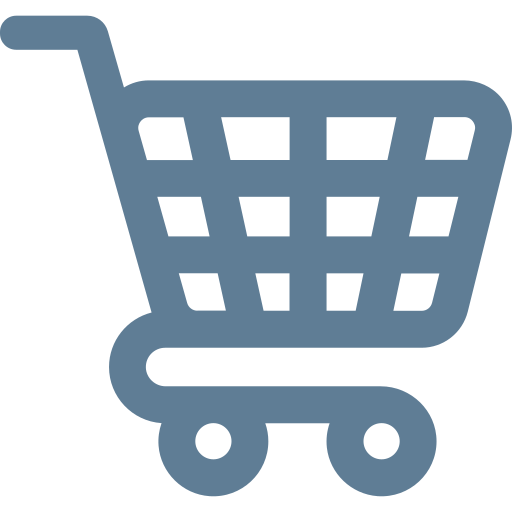
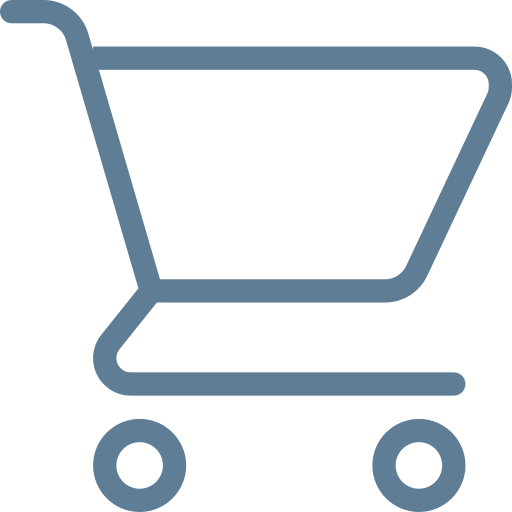
Cart count new design added

diff --git a/src/components/Header/Header.js b/src/components/Header/Header.js
@@ -49,17 +49,11 @@ export const Header = ({
         <div className={s.menu_btn}>
           <NavLink to="/contacts">CONTACT US</NavLink>
         </div>
-        <div>
-          <div className={s.cart}>
-            <NavLink to="/cart">
-              <img alt="cart_icon" src={cart} />
-            </NavLink>
-            <div className={s.cart_count}>
-              <div>{cartCounter}</div>
-              <div className={s.count_text}></div>
-            </div>
+        <NavLink to="/cart">
+          <div className={s.cart_image}>
+            <div className={s.cart_count}>{cartCounter}</div>
           </div>
-        </div>
+        </NavLink>
         <div className={s.menu_btn}>
           <NavLink to="/login">MY_ACCOUNT</NavLink>
         </div>

diff --git a/src/components/Header/Header.module.css b/src/components/Header/Header.module.css
@@ -46,29 +46,21 @@
   font-size: 13px;
 }
 
-.cart {
-  display: grid;
-  grid-template-columns: 1fr 1fr;
-  text-align: center;
-}
-
-.cart img {
-  height: 25px;
-  margin-top: 8px;
+.cart_image {
+  background-image: url('./../../assets/images/shopping-cart.png');
+  background-repeat: no-repeat;
+  /* background-size: 55% auto; */
+  background-size: contain;
+  background-position-x: 50%;
+  background-position-y: 50%;
+  min-height: 43px;
 }
 
 .cart_count {
-  display: grid;
-  grid-template-columns: 1fr;
   color: #5f7e96;
-  text-align: left;
-  margin-top: 10px;
-}
-
-.count_text {
-  font-size: 12px;
-  margin-top: 3px;
-  text-align: left;
+  text-align: center;
+  padding-top: 3px;
+  padding-left: 4px;
 }
 
 .login {
